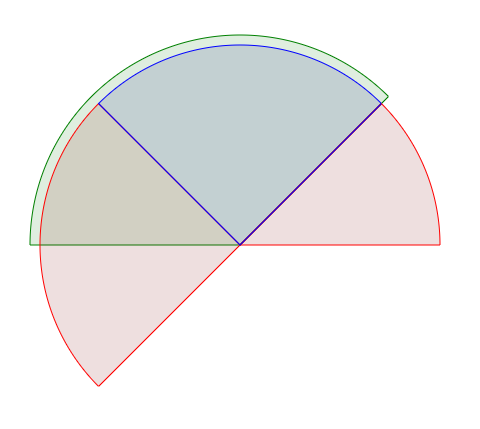
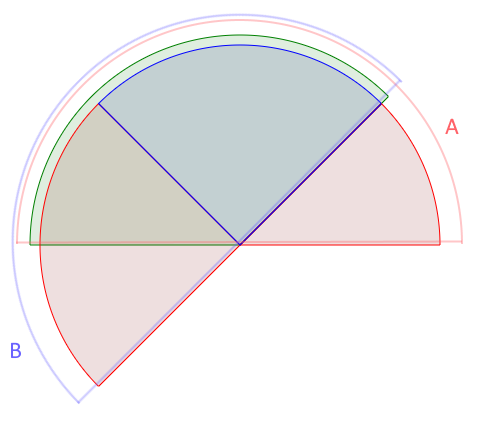
fix image link

diff --git a/LHV_Theory.md b/LHV_Theory.md
@@ -166,7 +166,7 @@ The above comparison shows QM is +/-3% and I'm +25% -8% (the 25% is at low count
 
 This is a sample (probably large, and I should look into resizing it).
 
-![math/overlap-arcs.png]
+![Example arc graph of 60 degrees and 50% correlation](math/overlap-arcs.png)
 
 Given two SG devices mounted in a fixed location; in the image one is labeled 'A' and outlined in red; the other is labeled 'B' and is outlined in blue.
 
